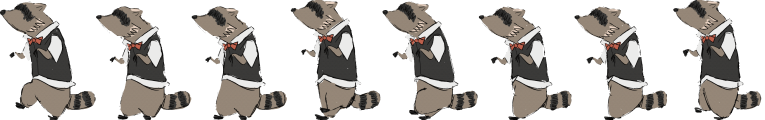
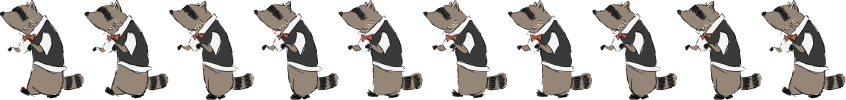
Push to work on other computer

diff --git a/core/src/com/raccoon/mygame/controllers/SaveController.java b/core/src/com/raccoon/mygame/controllers/SaveController.java
@@ -9,35 +9,41 @@ import java.io.FileWriter;
 import java.io.IOException;
 
 public class SaveController {
-    Map<Integer, Integer> keyvaluepairs;
+    private Map<Integer, Integer> keyvaluepairs = new HashMap<>();
     LevelLoader loader;
     File file;
 
     public SaveController(LevelLoader loader){
         this.loader = loader;
         readFile();
+        addToSaveIfMoreLevels();
+        writeToFile();
+        //no idea if this works
     }
     //creates empty save file.
     private void createDefaultKeyValuePairs(){
-        Map<Integer, Integer> pairs = new HashMap<>(this.loader.getLevels().size);
         for(int i = 0; i < this.loader.getLevels().size; i++){
-            pairs.put(i, 0);
+            this.keyvaluepairs.put(i, 0);
         }
-        this.keyvaluepairs = pairs;
     }
 
 
     private void readFile() {
-        keyvaluepairs = new HashMap<>();
         try {
+            //create a new file if it doesn't already exist
+            //otherwise read save.txt
             file = new File("save.txt");
+            //create a file scanner
             Scanner myReader = new Scanner(file);
             while (myReader.hasNextLine()) {
+                //read each line
                 String data = myReader.nextLine();
                 if (!data.isEmpty()) {
+                    //if the current line isn't empty
                     String[] parts = data.split("=");
                     int key = Integer.parseInt(parts[0]);
                     int value = Integer.parseInt(parts[1]);
+                    //parse and place into the key value pairs
                     keyvaluepairs.put(key, value);
                 }
             }
@@ -57,8 +63,7 @@ public class SaveController {
 
 
     private void writeToFile() {
-        try {
-            FileWriter writer = new FileWriter("save.txt");
+        try (FileWriter writer = new FileWriter(file)){
             for (Map.Entry<Integer, Integer> entry : keyvaluepairs.entrySet()) {
                 writer.write(entry.getKey() + "=" + entry.getValue() + "\n");
             }
@@ -68,12 +73,39 @@ public class SaveController {
             e.printStackTrace();
         }
     }
-    public void editKeyValuePair(int level, int stars){
-        this.keyvaluepairs.replace(level, stars);
-        //clear the current save and override it
-        writeToFile();
+    public void editKeyValuePair(int level, int score){
+        if(score > this.keyvaluepairs.get(level)) {
+            this.keyvaluepairs.replace(level, score);
+            //clear the current save and override it
+            writeToFile();
+        }
     }
     public Map<Integer, Integer> getKeyvaluepairs(){
         return this.keyvaluepairs;
+    }
+
+    //add to save if more levels
+    private void addToSaveIfMoreLevels() {
+        int currentLevelCount = keyvaluepairs.size();
+        int availableLevels = loader.getLevels().size;
+        if (currentLevelCount < availableLevels) {
+            for (int i = currentLevelCount; i < availableLevels; i++) {
+                keyvaluepairs.putIfAbsent(i, 0);
+            }
+            writeToFile();
+        }
+    }
+
+    public void deleteSaveFile() {
+        if (file.exists()) {
+            if (file.delete()) {
+                System.out.println("Save file deleted successfully.");
+                createDefaultKeyValuePairs();
+            } else {
+                System.out.println("Failed to delete the save file.");
+            }
+        } else {
+            System.out.println("No save file to delete.");
+        }
     }
 }

diff --git a/core/src/com/raccoon/mygame/models/UIButton.java b/core/src/com/raccoon/mygame/models/UIButton.java
@@ -1,6 +1,7 @@
 package com.raccoon.mygame.models;
 
 import com.badlogic.gdx.graphics.Color;
+import com.badlogic.gdx.graphics.OrthographicCamera;
 import com.badlogic.gdx.graphics.Texture;
 import com.badlogic.gdx.graphics.g2d.TextureRegion;
 import com.badlogic.gdx.utils.Array;
@@ -39,6 +40,9 @@ public class UIButton {
     private float OX = defaultOX, OY = defaultOY;
     private float SX = defaultSX, SY = defaultSY;
     private Color COLOR = defaultCOLOR;
+
+    private OrthographicCamera camera;
+    private boolean isSticky = false;
 
     private Array<UIButton> children = new Array<UIButton>();
 
@@ -111,12 +115,46 @@ public class UIButton {
     }
 
     /**
+     * Creates a UIButton relative to camera
+     * DONT LET THIS TYPE OF BUTTON HAVE CHILDREN I DONT ADJUST FOR IT
+     * NO BABIES
+     * */
+    public UIButton(Texture texture, String id, float x, float y, float defaultSX, float defaultSY,GameCanvas canvas, OrthographicCamera camera, boolean isSticky) {
+        this.id = id;
+        this.x = x;
+        this.y = y;
+        this.texture = texture;
+        this.defaultWidth = texture.getWidth();
+        this.defaultHeight = texture.getHeight();
+        this.defaultSX = defaultSX;
+        this.defaultSY = defaultSY;
+        this.width = defaultWidth * defaultSX;
+        this.height = defaultHeight * defaultSY;
+        this.SX = defaultSX;
+        this.SY = defaultSY;
+        this.default_texture = texture;
+        this.camera = camera;
+        this.isSticky = isSticky;
+    }
+
+
+    /**
      * Draws this button.
      * @param canvas Canvas to draw the button onto.
      * */
     public void draw(GameCanvas canvas) {
         if(this.texture == null)
             return;
+
+        if (isSticky && camera != null) {
+            float drawX = this.x;
+            float drawY = this.y;
+            drawX += camera.position.x - camera.viewportWidth / 2;
+            drawY += camera.position.y - camera.viewportHeight / 2;
+            canvas.draw(new TextureRegion(this.texture), this.COLOR, this.OX, this.OY, drawX, drawY, 0, this.SX, this.SY);
+            return;
+        }
+
         canvas.draw(new TextureRegion(this.texture),COLOR, this.OX, this.OY, this.x, this.y, 0, this.SX, this.SY);
 //        TextureRegion region, Color tint, float ox, float oy,
 //        float x, float y, float angle, float sx, float sy
@@ -281,6 +319,10 @@ public class UIButton {
     }
     private float getSY(){
         return this.SY;
+    }
+
+    public boolean getSticky(){
+        return this.isSticky;
     }
 
 }

diff --git a/core/src/com/raccoon/mygame/controllers/LevelSelectController.java b/core/src/com/raccoon/mygame/controllers/LevelSelectController.java
@@ -114,6 +114,9 @@ public class LevelSelectController extends WorldController{
         System.out.println(loader.getLevels().size);
         generateLevelSelectors(loader.getLevels().size);
 
+        UIButton up = new UIButton(new Texture("menu/uparrow.png"),"up", 1000,30,1,1,canvas,canvas.getCamera(),true);
+        addButton(up, ()->{}, ()->{up.setSX(1.1f);up.setSY(1.1f);}, up::resetStyleProperties);
+
     }
 
     public void dispose() {
@@ -249,6 +252,14 @@ public class LevelSelectController extends WorldController{
                 float maxX = button.getX() + button.getWidth();
                 float minY = button.getY();
                 float maxY = button.getY() + button.getHeight();
+
+                float camX = canvas.getCamera().position.x - canvas.getCamera().viewportWidth / 2;
+                float camY = canvas.getCamera().position.y - canvas.getCamera().viewportHeight / 2;
+
+                if (button.getSticky()) {
+                    minY += (canvas.getCamera().position.x - canvas.getCamera().viewportWidth / 2);
+                    maxY += (canvas.getCamera().position.y - canvas.getCamera().viewportHeight / 2);
+                }
                 if (processBounds(input.getAdjustedMouseX(canvas.getCamera()), input.getAdjustedMouseY(canvas.getCamera()), minX, maxX, minY, maxY)) {
                     button.setHovered(true);
                     button.onHoverEvent();
@@ -277,6 +288,7 @@ public class LevelSelectController extends WorldController{
                     float maxX = button.getX() + button.getWidth();
                     float minY = modalY + button.getY();
                     float maxY = modalY + button.getY() + button.getHeight();
+
                     if(processBounds(input.getAdjustedMouseX(canvas.getCamera()), input.getAdjustedMouseY(canvas.getCamera()), minX, maxX, minY, maxY)){
                         button.setHovered(true);
                         button.onHoverEvent();

diff --git a/core/src/com/raccoon/mygame/controllers/AnimationController.java b/core/src/com/raccoon/mygame/controllers/AnimationController.java
@@ -87,7 +87,7 @@ public class AnimationController {
         playerCook = new FilmStrip(new Texture("720/rockocook.png"),1,5,5);
         playerChop = new FilmStrip(new Texture("720/rockochop.png"), 2,5,9);
         playerKickedOut = new FilmStrip(new Texture("720/rockokickedout.png"),4,5,20);
-        playerSneak = new FilmStrip(new Texture("720/rockosneak.png"),1,8,8);
+        playerSneak = new FilmStrip(new Texture("720/rockosneak.png"),1,10,10);
 
         goatWalk = new FilmStrip(new Texture("720/goatwalk.png"), 1, 4, 4);
         goatIdle = new FilmStrip(new Texture("720/goatsit.png"), 1,1,1);

diff --git a/core/src/com/raccoon/mygame/game/GDXRoot.java b/core/src/com/raccoon/mygame/game/GDXRoot.java
@@ -271,6 +271,8 @@ public class GDXRoot extends Game implements ScreenListener {
 
             }else if (result.select){
                 current = -1;
+                //this just resets the scores according to whats new
+                levelselect = new LevelSelectController(canvas,input,loader,saveController);
                 result.select = false;
             }
             return;
